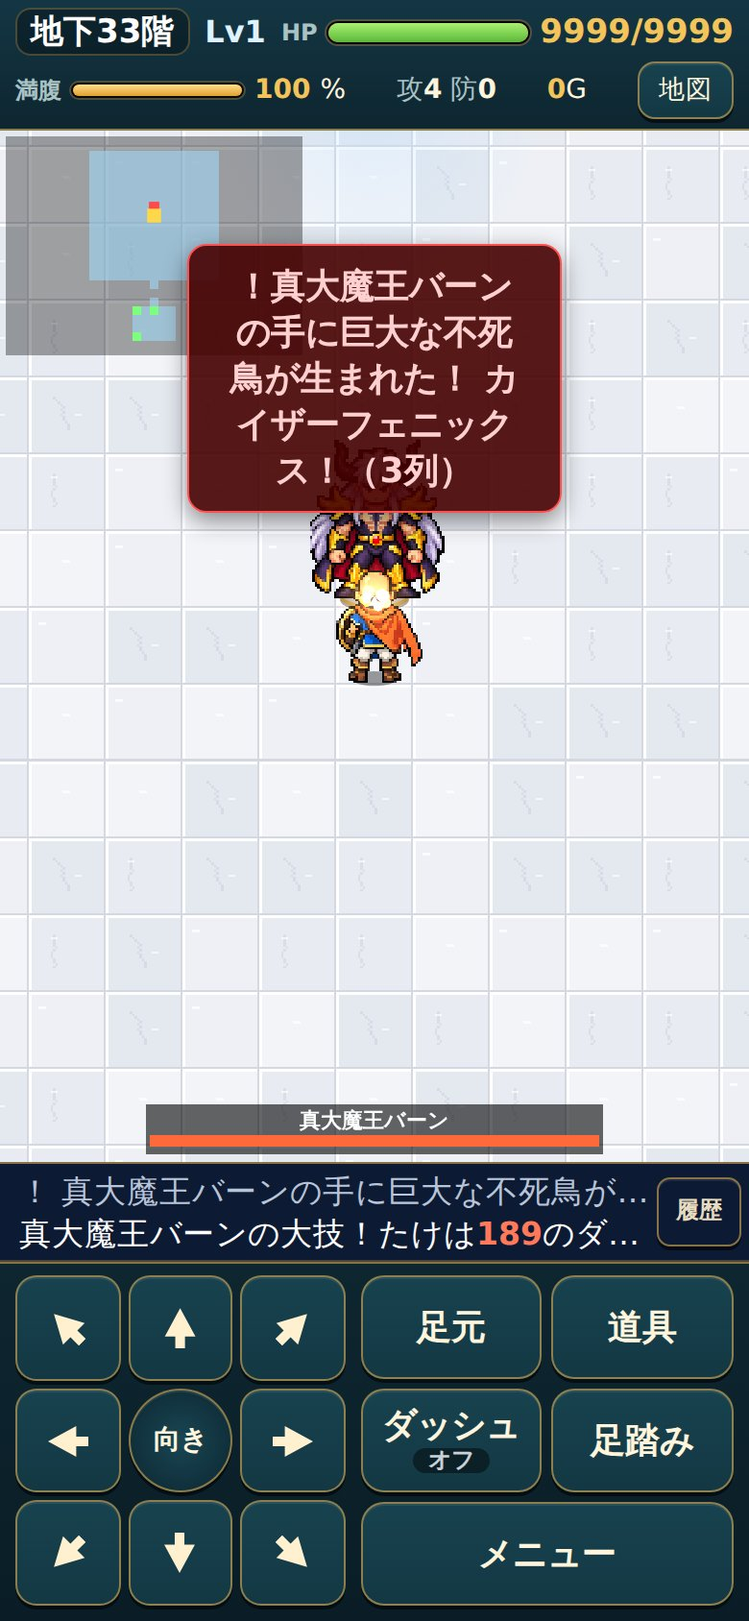
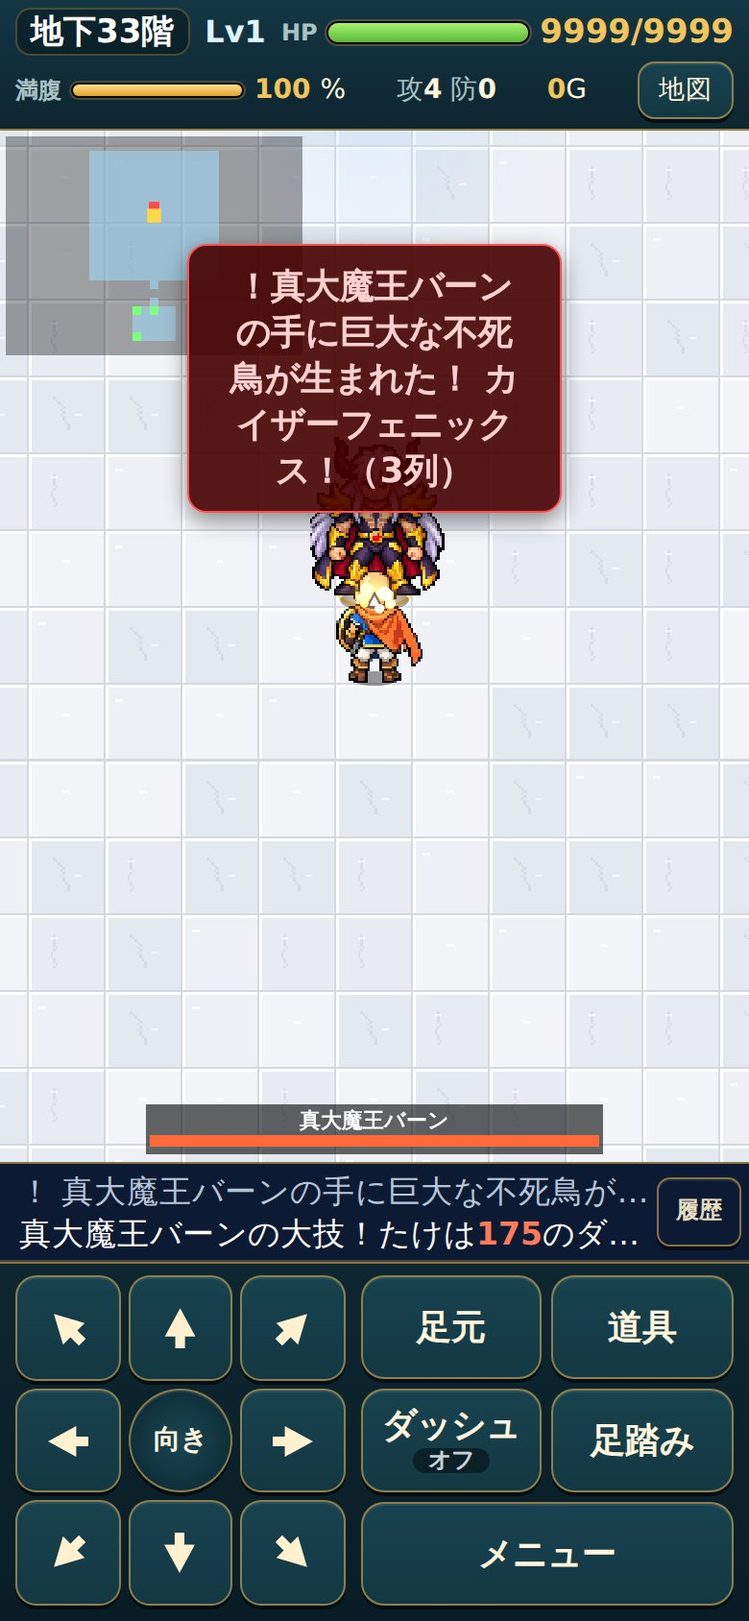
真大魔王バーンに天地魔闘の構えを追加
- 2マス以内で構える（構えている間は攻撃も予告もしない。最大4行動）
- 構えている間にたけの攻撃が当たると、そのダメージの3倍を防御無視ではね返す（バーンは無傷）
- 3マス以上離れると構えを解いてカイザーフェニックスを予告
- カラミティエンドが構えより先に出ていた順番を直した
- 数値は仮：HP1700・攻撃60（構えを足して難しくなった分を調整）
- 見た目は仮（「構」の印と金色の輪・はね返しの衝撃）。エフェクトは ChatGPT の素材待ち
- 確認：tools/truevearn-moves-check.js（30項目）・tools/truevearn-balance.js・ロジックのテスト

Claude-Session: https://claude.ai/code/session_01HDLigwwegm7F2trSGLBQuS

Changed region(s): [[0.4, 0.3081, 0.5846, 0.4005], [0.6462, 0.7393, 0.7385, 0.7701]]

diff --git a/tools/truevearn-moves-check.js b/tools/truevearn-moves-check.js
@@ -1,6 +1,7 @@
 // 真大魔王バーン（33階）の技（2026年10月21日）：予告1ターン → 次の行動で発動、の見え方と動きの確認（PCのブラウザ、幅360・390・430）
 //   node tools/truevearn-moves-check.js [出力フォルダ]（既定 docs/truevearn-moves-v1/）
 //   カラミティエンド（隣・まわり1マス）・カラミティウォール（まわり3マス）・カイザーフェニックス（隣でも3列）を、実際のゲームの処理（TS.UI.doAct の足踏み）で出させる。
+//   天地魔闘の構え（構える・攻撃するとはね返る・離れるとカイザーフェニックス）も確かめる。
 //   技の絵（エフェクト）は ChatGPT の素材が届くまで仮（ui.js の blast 'calamityEnd'・'calamityWall'、フェニックスは今の炎の鳥）
 const { chromium } = (() => { try { return require('playwright'); } catch (e) { return require('/opt/node22/lib/node_modules/playwright'); } })();
 const http = require('http'), fs = require('fs'), path = require('path');
@@ -13,9 +14,9 @@ let ok = 0, ng = 0; const chk = (c, m) => { if (c) ok++; else ng++; console.log(
 const closeAll = (p) => p.evaluate(() => { while (TS.UI.modals.length) TS.UI.modals[TS.UI.modals.length - 1].close(); TS.UI.lockUntil = 0; });
 // 技ごとの置き方：たけとボスの位置（広間の左上からのずれ）・使えない技の待ち
 const MOVES = [
-  { key: 'end', label: 'カラミティエンド', b: [7, 6], p: [7, 7], cds: { wall: 9, phoenix: 9 }, n: 8 },
-  { key: 'wall', label: 'カラミティウォール', b: [7, 6], p: [9, 9], cds: { end: 9, phoenix: 9 }, n: 48 },
-  { key: 'phoenix', label: 'カイザーフェニックス', b: [7, 6], p: [7, 7], cds: { end: 9, wall: 9 } },
+  { key: 'end', label: 'カラミティエンド', b: [7, 6], p: [7, 7], cds: { wall: 9, phoenix: 9, stance: 99 }, n: 8 },
+  { key: 'wall', label: 'カラミティウォール', b: [7, 6], p: [9, 9], cds: { end: 9, phoenix: 9, stance: 99 }, n: 48 },
+  { key: 'phoenix', label: 'カイザーフェニックス', b: [7, 6], p: [7, 7], cds: { end: 9, wall: 9, stance: 99 } },
 ];
 (async () => {
   const b = await chromium.launch();
@@ -51,6 +52,27 @@ const MOVES = [
       const dmg = hp0 - after.hp, rng = M.key === 'end' ? [120, 150] : M.key === 'wall' ? [80, 100] : [1, 999];
       chk(dmg >= rng[0] && dmg <= rng[1] && !after.rest, `${W} ${M.label}：次の行動で発動・ダメージ ${dmg}（隙なし）`);
     }
+    // 天地魔闘の構え：隣で構える → 攻撃するとはね返る（3倍）→ 3マス離れると構えを解いてカイザーフェニックスの予告
+    await p.evaluate(() => { const r = TS.UI.S.run, A = r.bossFight, bo = r.enemies.find((e) => e.boss); bo.x = A.x + 7; bo.y = A.y + 6; bo.charge = null; bo.stance = 0; bo.cds = {};
+      r.player.x = bo.x; r.player.y = bo.y + 1; r.player.dir = 'up'; r.player.hp = 9999; TS.Game.updateVision(r); });
+    await p.evaluate(() => TS.UI.doAct({ type: 'wait' })); await p.waitForTimeout(600); await closeAll(p);
+    const st = await p.evaluate(() => { const bo = TS.UI.S.run.enemies.find((e) => e.boss); return { stance: bo.stance, charge: !!bo.charge }; });
+    chk(st.stance === 4 && !st.charge, `${W} 天地魔闘の構え（攻撃も予告もしない） ${JSON.stringify(st)}`);
+    await p.screenshot({ path: path.join(OUT, `stance_${W}.jpg`), quality: 85 });
+    let ctr = null;
+    for (let i = 0; i < 6 && !ctr; i++) {
+      const h0 = await p.evaluate(() => ({ p: TS.UI.S.run.player.hp, b: TS.UI.S.run.enemies.find((e) => e.boss).hp }));
+      await p.evaluate(() => TS.UI.doAct({ type: 'move', dir: 'up' })); await p.waitForTimeout(140);
+      const h1 = await p.evaluate(() => ({ p: TS.UI.S.run.player.hp, b: TS.UI.S.run.enemies.find((e) => e.boss).hp, log: TS.UI.S.run.log.slice(-3).join(' ') }));
+      if (h1.log.includes('はね返した')) { ctr = { lost: +(/反撃！ たけは(\d+)のダメージ/.exec(h1.log) || [0, 0])[1], boss: h0.b - h1.b }; await p.screenshot({ path: path.join(OUT, `stance-counter_${W}.jpg`), quality: 85 }); }
+      await p.waitForTimeout(500); await closeAll(p);
+    }
+    chk(ctr && ctr.lost > 0 && ctr.lost % 3 === 0 && ctr.boss === 0, `${W} 構えに攻撃：3倍のダメージが返る・バーンは無傷 ${JSON.stringify(ctr)}`);
+    await p.evaluate(() => { const r = TS.UI.S.run, bo = r.enemies.find((e) => e.boss); bo.stance = 4; r.player.x = bo.x; r.player.y = bo.y + 3; r.player.hp = 9999; TS.Game.updateVision(r); });
+    await p.evaluate(() => TS.UI.doAct({ type: 'wait' })); await p.waitForTimeout(700); await closeAll(p);
+    const lv = await p.evaluate(() => { const r = TS.UI.S.run, bo = r.enemies.find((e) => e.boss), c = bo.charge; return { stance: bo.stance, fx: c && c.fx, hit: !!c && c.tiles.some((t) => t.x === r.player.x && t.y === r.player.y) }; });
+    chk(lv.stance === 0 && lv.fx === 'firebird' && lv.hit, `${W} 3マス離れると構えを解いてカイザーフェニックスの予告 ${JSON.stringify(lv)}`);
+    await p.screenshot({ path: path.join(OUT, `stance-leave_${W}.jpg`), quality: 85 });
     chk(!errs.length, `${W} エラーなし ${errs.join(' / ')}`);
     await ctx.close();
   }

diff --git a/js/bossai.js b/js/bossai.js
@@ -253,7 +253,8 @@
    *  カラミティエンド：隣にいると、まわり1マス（8マス）。防御を無視して D.TRUEVEARN.end.dmg（120〜150）
    *  カラミティウォール：3マス以内にいると、まわり3マス（7×7）。防御を無視して 80〜100。1回の移動では外へ出られない
    *  カイザーフェニックス：8方向の直線上にいれば、隣からでも撃つ。たけへの直線と、その両どなりの3列（以前の滅びの炎の範囲）。攻撃力×mult
-   *  以前の「天地の掌」「魔界の炎の輪」「滅びの炎」は無し。HPが enrageAt 以下で待ち時間が短くなる */
+   *  天地魔闘の構え：2マス以内で構える（攻撃しない・最大4行動）。構えている間にたけの攻撃が当たると3倍にしてはね返す。3マス以上離れると構えを解いてカイザーフェニックス
+ *  以前の「天地の掌」「魔界の炎の輪」「滅びの炎」は無し。HPが enrageAt 以下で待ち時間が短くなる */
   AI.truevearn = function (S, e, ev, sees, H) {
     const run = S.run, p = run.player, E = D.ENEMIES[e.type], TV = D.TRUEVEARN;
     if (!aware(run, e, sees)) return false;
@@ -266,18 +267,32 @@
       cd[key] = TV[key].cd[ph];
       return true;
     };
-    if (H.adjacent(run, e, p) && !cd.end) return fixed(H.areaTiles(run, e, 1), 'end', 'が手刀に闘気を集めた！ カラミティエンド！（まわり1マス）', 'calamityEnd');
-    if (a && !cd.phoenix) {
-      const center = H.lineTiles(run, e, a[0], a[1], 12);
-      if (center.some((t) => t.x === p.x && t.y === p.y)) {
-        // 進む向きに対して両どなりの列も（3列）
-        const px = -a[1], py = a[0], tiles = center.slice();
-        for (const s of [1, -1]) for (const t of center) { const x = t.x + px * s, y = t.y + py * s; if (DG.passable(run.map, x, y) && !tiles.some((o) => o.x === x && o.y === y)) tiles.push({ x, y }); }
-        H.startCharge(S, e, ev, tiles, TV.phoenix.mult, 0, 'の手に巨大な不死鳥が生まれた！ カイザーフェニックス！（3列）'); e.charge.fx = 'firebird';
-        cd.phoenix = TV.phoenix.cd[ph];
-        return true;
+    // カイザーフェニックス：向き a の直線（12マス）と、その両どなりの列（3列）
+    const phoenix = (a, msg) => {
+      const center = H.lineTiles(run, e, a[0], a[1], 12), px = -a[1], py = a[0], tiles = center.slice();
+      for (const s of [1, -1]) for (const t of center) { const x = t.x + px * s, y = t.y + py * s; if (DG.passable(run.map, x, y) && !tiles.some((o) => o.x === x && o.y === y)) tiles.push({ x, y }); }
+      H.startCharge(S, e, ev, tiles, TV.phoenix.mult, 0, msg + 'カイザーフェニックス！（3列）'); e.charge.fx = 'firebird';
+      cd.phoenix = TV.phoenix.cd[ph];
+      return true;
+    };
+    // 天地魔闘の構え（e.stance＝構えていられる残りの行動）。構えている間は攻撃しない。反撃は js/game.js の damageEnemy
+    const ST = TV.stance;
+    if (e.stance > 0) {
+      if (d >= ST.breakAt) {   // 離れた：構えを解いて、たけの方へ（いちばん近い8方向）カイザーフェニックス
+        e.stance = 0;
+        const ang = Math.round(Math.atan2(p.y - e.y, p.x - e.x) / (Math.PI / 4)) * Math.PI / 4;
+        return phoenix([Math.round(Math.cos(ang)), Math.round(Math.sin(ang))], 'は構えを解いた！ 手に巨大な不死鳥が生まれた！ ');
       }
+      if (--e.stance > 0) { say(run, E.name + 'は' + ST.name + 'をとっている……（攻撃するとはね返される）'); return true; }
+      say(run, E.name + 'は構えを解いた。');
+    } else if (!cd.stance && d <= ST.range) {
+      e.stance = ST.maxActs; cd.stance = ST.cd[ph] + ST.maxActs;
+      say(run, E.name + 'は' + ST.name + 'をとった！ 攻撃するとはね返される！ 離れると……');
+      ev.push({ t: 'stance', id: e.id });
+      return true;
     }
+    if (H.adjacent(run, e, p) && !cd.end) return fixed(H.areaTiles(run, e, 1), 'end', 'が手刀に闘気を集めた！ カラミティエンド！（まわり1マス）', 'calamityEnd');
+    if (a && !cd.phoenix && H.lineTiles(run, e, a[0], a[1], 12).some((t) => t.x === p.x && t.y === p.y)) return phoenix(a, 'の手に巨大な不死鳥が生まれた！ ');
     if (d <= TV.wall.radius && !cd.wall) return fixed(H.areaTiles(run, e, TV.wall.radius), 'wall', 'のまわりに闘気の壁が広がる！ カラミティウォール！（まわり3マス）', 'calamityWall');
     return false;   // 通常攻撃（隣）か、近づく
   };

diff --git a/tools/truevearn-balance.js b/tools/truevearn-balance.js
@@ -1,12 +1,13 @@
 // 真大魔王バーン（33階）の手ごたえの目安：node tools/truevearn-balance.js [回数]
 // 実際のゲームの処理（G.act）で戦わせる。たけ：Lv40・最大HP264・覇者の剣+8（攻78）・覇者の盾+3（防22）・いのちの霊薬3個（全回復）。祈りで全回復した状態から
 // たけの動き（簡易AI）：HPが減ったら霊薬（1ターン）。予告の範囲にいれば、範囲の外の隣のマスへ（無ければ攻撃）。それ以外は隣なら攻撃、離れていれば近づく
-//   「よけない」：予告を無視して殴り続ける（上限の目安）
+//   天地魔闘の構えのあいだは殴らずにその場で待つ（よけるAI。STANCE=leave なら離れる）
+//   「よけない」：予告も構えも無視して殴り続ける（上限の目安）
 const TS = require('../tests/load'); const { Data: D, Game: G, Dungeon: DG } = TS;
 const N = +(process.argv[2] || 200);
-// 調整の試し：TV='{"hp":1500,"atk":55,"wallCd":[3,2],"endCd":[3,2],"phMult":2.4,"phCd":[3,2]}' のように上書き
+// 調整の試し：TV='{"hp":1500,"atk":55,"wallCd":[3,2],"endCd":[3,2],"phMult":2.4,"phCd":[3,2],"stCd":[8,6],"stActs":4}' のように上書き
 if (process.env.TV) { const o = JSON.parse(process.env.TV), E = D.ENEMIES.truevearn, T = D.TRUEVEARN;
-  if (o.hp) E.hp = o.hp; if (o.atk) E.atk = o.atk; if (o.wallCd) T.wall.cd = o.wallCd; if (o.endCd) T.end.cd = o.endCd; if (o.phMult) T.phoenix.mult = o.phMult; if (o.phCd) T.phoenix.cd = o.phCd; }
+  if (o.hp) E.hp = o.hp; if (o.atk) E.atk = o.atk; if (o.wallCd) T.wall.cd = o.wallCd; if (o.endCd) T.end.cd = o.endCd; if (o.phMult) T.phoenix.mult = o.phMult; if (o.phCd) T.phoenix.cd = o.phCd; if (o.stCd) T.stance.cd = o.stCd; if (o.stActs) T.stance.maxActs = o.stActs; }
 const ONLY = process.env.ONLY_DODGE;
 function setup(seed) {
   const S = G.newState(), st = S.village.story; st.introDone = true; S.village.seenIntro = true; st.chapter = 6;
@@ -43,10 +44,20 @@ function fight(seed, dodge, healAt) {
         const dd = Math.max(Math.abs(x - b.x), Math.abs(y - b.y)); if (dd < bd) { bd = dd; best = d; } }
       if (best) act = { type: 'move', dir: best };
     }
+    // 天地魔闘の構え：殴らずに離れる（よけるAIだけ。予告の範囲には入らない）
+    if (!act && dodge && b.stance > 0 && process.env.STANCE !== 'leave') act = { type: 'wait' };   // 既定：構えのあいだは殴らずに待つ（STANCE=leave：離れる）
+    if (!act && dodge && b.stance > 0) {
+      let best = null, bd = -1;
+      for (const [d, [dx, dy]] of DIRS) { const x = p.x + dx, y = p.y + dy;
+        if (!G.canStep(r.map, p.x, p.y, dx, dy) || G.enemyAt(r, x, y) || danger.has(x + ',' + y)) continue;
+        const dd = Math.max(Math.abs(x - b.x), Math.abs(y - b.y)); if (dd > bd) { bd = dd; best = d; } }
+      act = best ? { type: 'move', dir: best } : { type: 'wait' };
+    }
     if (!act) {
       const dx = Math.sign(b.x - p.x), dy = Math.sign(b.y - p.y);
       const d = Object.keys(G.DIRS).find((k) => G.DIRS[k][0] === dx && G.DIRS[k][1] === dy);
-      act = { type: 'move', dir: d };   // 隣なら攻撃（移動の向きに敵）
+      const adj = Math.max(Math.abs(b.x - p.x), Math.abs(b.y - p.y)) <= 1;
+      act = dodge && !adj && danger.has((p.x + dx) + ',' + (p.y + dy)) ? { type: 'wait' } : { type: 'move', dir: d };   // 隣なら攻撃（移動の向きに敵）。よけるAIは予告のマスへは近づかない
     }
     G.act(S, act); turns++;
     if (p.hp < hp0) taken += hp0 - p.hp;

diff --git a/js/ui.js b/js/ui.js
@@ -1884,6 +1884,7 @@
         case 'eanim': { const en = run.enemies.find((q) => q.id === e.id); if (en) enemyActFx(en, e.kind, e.dx, UI.ENEMY_ACT.prep, UI.ENEMY_ACT.prep + UI.ENEMY_ACT.act); break; }
         // あくまのきしが盾を構えた（ポーズは render.js が e.guard で出す）
         case 'eguard': AU.sfx('bump'); break;
+        case 'stance': AU.sfx('bump'); break;   // 天地魔闘の構え（構えの見た目は render.js が e.stance で出す）
         case 'steal': {
           // おどるほうせき：盗む動作のコマを、逃げる前の場所に残して見せる（盗みはゲーム側で1回だけ済んでいる）
           const th = e.id !== undefined && { id: e.id, x: e.from.x, y: e.from.y, type: (run.enemies.find((q) => q.id === e.id) || {}).type || 'thief' };
@@ -1985,6 +1986,7 @@
       case 'doomflame': RD.addFx({ t: 'flamewave', tiles, color: '#c8306a', dur: 560 }); AU.sfx('bolt'); return;   // 真大魔王：滅びの炎
       // 真大魔王バーン：カラミティエンド（まわり1マス）・カラミティウォール（まわり3マス）。正式の演出の絵は後で届く予定（それまでの仮）
       case 'calamityEnd': RD.addFx({ t: 'impact', tiles, center: b ? { x: b.x, y: b.y } : null, color: '#ffe0a0', dur: 420 }); FXm.shake(RD, 5, 320); AU.sfx('hit'); return;
+      case 'stanceCounter': RD.addFx({ t: 'impact', tiles, center: b ? { x: b.x, y: b.y } : null, color: '#fff2b0', dur: 380 }); FXm.shake(RD, 5, 300); AU.sfx('hit'); return;   // 天地魔闘の構えの反撃（仮。絵はChatGPT担当）
       case 'calamityWall': RD.addFx({ t: 'impact', tiles, center: b ? { x: b.x, y: b.y } : null, color: '#d8a0ff', dur: 520 }); FXm.shake(RD, 4, 360); AU.sfx('bolt'); return;
       case 'palm': // 真大魔王バーン：速く重い打撃と強い衝撃
         RD.addFx({ t: 'impact', tiles, center: b ? { x: b.x, y: b.y } : null, color: '#ffb0f0', dur: 380 });
@@ -2448,7 +2450,7 @@
       <span>武器</span><span>${w ? esc(G.itemName(w)) : 'なし'}</span><span>盾</span><span>${sh ? esc(G.itemName(sh)) : 'なし'}</span>
       <span>回復・食料</span><span>${heal}個</span><span>持ち物</span><span>${run.bag.length}/${D.BAG_SIZE}</span></div>
       <p class="note">準備の間は時間が止まっています（敵は動きません）。「道具を確認」で装備の付け替えや回復ができます。</p>
-      <div class="warnbox">真大魔王バーン：カラミティエンド（周り1マス）・カラミティウォール（周り3マス）・カイザーフェニックス（3列）。どれも予告の次のターンに発動し、防御を無視する大技もある。</div>`,
+      <div class="warnbox">真大魔王バーン：カラミティエンド（周り1マス）・カラミティウォール（周り3マス）・カイザーフェニックス（3列）。どれも予告の次のターンに発動し、防御を無視する大技もある。天地魔闘の構えのあいだに攻撃すると3倍で返され、離れるとカイザーフェニックスが来る。</div>`,
       onClose: () => { UI.prepOpen = false; },
       buttons: [
         { label: '道具を確認', onClick: () => { UI.prepHold = true; setTimeout(() => { UI.prepHold = false; openItems(); }, 0); } },

diff --git a/js/game.js b/js/game.js
@@ -882,6 +882,14 @@
    * 防御中のあくまのきし（e.guard）：受けるダメージが defend.cut 倍（最低1） */
   function damageEnemy(S, e, dmg, ev, msg, kind) {
     const run = S.run, E = D.ENEMIES[e.type], nm = E.name;
+    // 天地魔闘の構え（真大魔王バーン e.stance）：たけの攻撃（直接・投げる・杖や巻物）は当たらず、そのダメージの reflect 倍を防御無視ではね返す。ほかの敵の攻撃（kind 'enemy'）は対象外
+    if (e.stance > 0 && kind !== 'enemy') {
+      const ST = D.TRUEVEARN.stance, n = Math.max(1, Math.round(dmg * ST.reflect));
+      G.log(run, nm + 'の' + ST.name + '！ たけの攻撃をはね返した！');
+      ev.push({ t: 'blast', id: e.id, tiles: [{ x: run.player.x, y: run.player.y }], fx: 'stanceCounter' });
+      damagePlayer(S, e, n, ev, nm + 'の反撃', { big: true });
+      return;
+    }
     if (E.metal) {
       if (kind === 'magic') { G.log(run, nm + 'には効かなかった！'); ev.push({ t: 'miss', x: e.x, y: e.y }); return; }
       if (kind !== 'metal') { dmg = 1; msg = nm + 'に1のダメージ。'; }
@@ -1808,7 +1816,7 @@
     if (e.guard > 0) e.guard--;   // あくまのきしの防御：自分の行動のたびに1減る（0で終わり）
     // 眠り（眠ると予告中の攻撃も中断される）
     if (e.sleep > 0) {
-      if (e.charge) { e.charge = null; G.log(run, E.name + 'の構えがとけた。'); }
+      if (e.charge || e.stance) { e.charge = null; e.stance = 0; G.log(run, E.name + 'の構えがとけた。'); }
       if (e.sleep > 1000) { // 休眠中のきりかぶおばけ：近づくと起きる
         if (cheb(e, p) <= 2) { e.sleep = 0; G.log(run, E.name + 'が目を覚ました！'); }
         return;
@@ -2142,7 +2150,7 @@
     } else if (target) {
       const dmg = calcDamage(run.rng, atk, target.def);
       G.log(run, E.name + 'の炎は' + D.ENEMIES[target.type].name + 'に当たって止まった！');
-      damageEnemy(S, target, dmg, ev, D.ENEMIES[target.type].name + 'に' + dmg + 'のダメージ。');
+      damageEnemy(S, target, dmg, ev, D.ENEMIES[target.type].name + 'に' + dmg + 'のダメージ。', 'enemy');
     } else G.log(run, E.name + 'の炎は届かなかった。');
     return true;
   }

diff --git a/js/data.js b/js/data.js
@@ -126,6 +126,9 @@
     end: { name: 'カラミティエンド', dmg: [120, 150], cd: [3, 2] },
     wall: { name: 'カラミティウォール', dmg: [80, 100], radius: 3, cd: [2, 2] },
     phoenix: { mult: 2.6, cd: [3, 2] },
+    // 天地魔闘の構え：たけが range マス以内なら構える（攻撃しない）。構えている間にたけの攻撃が当たると、そのダメージの reflect 倍を返す（防御無視。バーンは無傷）。
+    //   たけが breakAt マス以上離れると構えを解き、カイザーフェニックスを予告する。maxActs 行動で構えを解く。cd：構えを解いてから次に構えるまで
+    stance: { name: '天地魔闘の構え', range: 2, reflect: 3, breakAt: 3, maxActs: 4, cd: [8, 6] },
   };
   /* 竜人王バラン（隠しダンジョン35階）の戦い方（2026年10月：技の種類は確定。**数値はすべて調整案（仮）**）。
    *  通常攻撃：隣なら殴る（ほかの技が使えないとき）
@@ -467,7 +470,7 @@
     mist_clone: { name: 'ミストバーン', hp: 1, atk: 22, def: 0, exp: 0, ai: 'clone', sprite: 'mist', noScale: true, clone: true },
     vearn:  { name: '大魔王バーン', hp: 900, atk: 44, def: 20, exp: 1500, ai: 'boss', sprite: 'vearn', noScale: true, arena: 'throne', big: true },
     // arena 'void'：融合と覚醒の舞台（登場ムービーの白い異空間）。白い床・白い霧・空席の水晶の玉座（js/render.js の drawVoidBg）
-    truevearn: { name: '真大魔王バーン', hp: 1800, atk: 65, def: 21, exp: 3000, ai: 'boss', sprite: 'truevearn', noScale: true, arena: 'void', big: true },
+    truevearn: { name: '真大魔王バーン', hp: 1700, atk: 60, def: 21, exp: 3000, ai: 'boss', sprite: 'truevearn', noScale: true, arena: 'void', big: true },
   };
   D.POISON = { chance: 0.4, turns: 8, guard: 15, dmgRate: 0.025 }; // 毒：最大HPの2.5%を毎ターン。治った後しばらくかからない
   D.ENEMY_SCALE = { hp: 0.12, atk: 0.08, exp: 0.12 }; // 出現し始めた階から1階ごとの上昇率

diff --git a/js/render.js b/js/render.js
@@ -534,6 +534,12 @@
       if (isClone && G.hasCharm(run, 'truesight')) badge(g, '幻', sx + ts / 2, sy + ts - dw * 0.55, ts, k, '#c8f0ff', '#102040');
       if (hit) { g.globalAlpha = img.art ? 0.65 : 0.6; if (img.art) g.drawImage(SP.tinted(img, '#ffffff'), sx + (ts - dw) / 2 + shake, ty0, dw, dw); else { g.globalCompositeOperation = 'lighter'; g.drawImage(img, sx + (ts - dw) / 2 + shake, sy + ts - dw, dw, dw); g.globalCompositeOperation = 'source-over'; } g.globalAlpha = 1; }
       g.imageSmoothingEnabled = false;
+      // 天地魔闘の構え（e.stance）：金色の光の輪と「構」の印（仮の見た目。エフェクトの絵は ChatGPT の素材待ち）
+      if (e.stance > 0) {
+        g.strokeStyle = `rgba(255,220,120,${0.55 + 0.35 * Math.sin(now / 140)})`; g.lineWidth = k * 2;
+        g.beginPath(); g.ellipse(sx + ts / 2, ty0 + dw * 0.55, dw * 0.5, dw * 0.55, 0, 0, Math.PI * 2); g.stroke();
+        badge(g, '構', sx + ts / 2, bodyTop - ts * 0.05, ts, k, '#ffe08a', '#402800');
+      }
       if (e.charge) badge(g, '！', sx + ts / 2, bodyTop - ts * 0.05, ts, k, '#ff5050', '#400');
       else if (e.rest > 0) { g.font = `bold ${Math.round(ts * 0.3)}px sans-serif`; g.fillStyle = '#bde0ff'; g.fillText('…', sx + ts * 0.65, sy + ts * 0.2); }
       // 状態異常のしるし（眠り＝月、鈍足＝砂時計）。頭の上に横に並べ、重ならないようにする

diff --git a/docs/TRUEVEARN_MOVES.md b/docs/TRUEVEARN_MOVES.md
@@ -1,4 +1,4 @@
-# 真大魔王バーン（33階）の技の作り直し（2026年10月21日）
+# 真大魔王バーン（33階）の技の作り直し（2026年10月21日・天地魔闘の構えを追加）
 
 ## 技（どれも予告1ターン：範囲が光る → 次の行動で発動。発動のあとの隙は無い）
 | 技 | 範囲 | ダメージ | 使うとき | 待ち（前半／HP40%未満） |
@@ -6,25 +6,35 @@
 | **カラミティエンド** | バーンのまわり1マス（8マス） | **120〜150・防御無視** | たけが隣にいる | 3／2 行動 |
 | **カラミティウォール** | バーンのまわり3マス（7×7） | **80〜100・防御無視** | たけが3マス以内 | 2／2 行動 |
 | **カイザーフェニックス** | バーンから一直線（12マス）＋両どなりの列＝3列 | 攻撃力×2.6（防御あり） | たけが縦・横・斜めの一直線上（**隣でも撃つ**） | 3／2 行動 |
+| **天地魔闘の構え**（2026年10月21日追加） | — | 構えている間にたけの攻撃が当たると、**そのダメージの3倍を防御無視ではね返す**（バーンは無傷） | たけが2マス以内 | 構えを解いてから 8／6 行動 |
+
+### 天地魔闘の構え
+- 構えている間は攻撃も予告もしません（頭の上に「構」、金色の光の輪。仮の見た目）。
+- 構えている間に、たけが**3マス以上離れる**と、構えを解いて**カイザーフェニックス**を予告します（たけの方へ。いちばん近い8方向）。予告は1ターンで、次の行動で発動。たけに向けて撃つので、3列の真ん中にいると1歩ではよけられません。
+- 近くで攻撃せずに待てば、**4行動**で構えを解きます（そのあとすぐ次の技。隙なし）。
+- はね返すのは、たけの攻撃（剣で殴る・2マス攻撃・投げた道具・杖や巻物の雷）。外れた攻撃は、はね返しません。ほかの敵の攻撃は対象外。
+- 動き：`js/bossai.js` の `AI.truevearn`（構える・解く）、`js/game.js` の `damageEnemy`（はね返し）。数値：`D.TRUEVEARN.stance`。
 
 - 以前の「天地の掌」は、同じ範囲（まわり1マス）のカラミティエンドに置きかえました。「滅びの炎（3列）」はカイザーフェニックスに、「魔界の炎の輪」は無くしました。
-- 優先順：隣ならカラミティエンド → 一直線ならカイザーフェニックス → 3マス以内ならカラミティウォール → どれも待ちなら通常攻撃・近づく。
+- 優先順：構えが使えて2マス以内なら天地魔闘の構え → 隣ならカラミティエンド → 一直線ならカイザーフェニックス → 3マス以内ならカラミティウォール → どれも待ちなら通常攻撃・近づく。
 - 隣にいると、カラミティウォール（7×7）からは1ターンでは出られません（かわせない攻撃）。離れていても、次々に予告が来ます。
 - 動き：`js/bossai.js` の `AI.truevearn`・`RES.fixedDmg`。数値：`js/data.js` の `D.TRUEVEARN`・`D.ENEMIES.truevearn`。
 - 最終決戦の準備の画面の説明も新しい技に替えました。
 
 ## 数値（**すべて仮**）
-- 真大魔王バーン：HP 1200 → **1800**、攻撃力 48 → **65**、防御 21（そのまま）。
+- 真大魔王バーン：HP 1200 → **1700**、攻撃力 48 → **60**、防御 21（そのまま）。（構えを足す前の案は HP1800・攻撃65）
 - 目安（`node tools/truevearn-balance.js 200`。実際のゲームの処理で200回戦わせる。たけ：Lv40・最大HP264・覇者の剣+8・覇者の盾+3・いのちの霊薬3個）：
 
 | たけの動き（簡易AI） | 勝ち | 霊薬 | 勝ったときの残りHP | ターン |
 |---|---|---|---|---|
-| 予告を見てよける・HP120以下で霊薬 | 78% | 3個とも使う | 約103 | 約82 |
-| 予告を見てよける・HP160以下で霊薬 | 82% | 3個とも使う | 約109 | 約84 |
-| よけない | 0% | — | — | 約12 |
+| 予告を見てよける・構えには攻撃せずその場で待つ・HP120以下で霊薬 | 80% | 3個とも使う | 約196 | 約109 |
+| 同じ・HP160以下で霊薬（早めに飲む） | 0% | 3個とも使う | — | 約52 |
+| 予告を見てよける・構えから離れる（`STANCE=leave`） | 0% | — | — | 約34 |
+| よけない・構えにも攻撃する | 0% | — | — | 約6 |
 
   - 簡易AIは予告を必ず見て、いちばん近い安全なマスへよけます。人の操作ではよけそこないがあるので、もっと苦しくなる見込みです。
-  - HP1900にすると、よける簡易AIでも勝ちは55%でした（強すぎる場合の目安）。
+  - 構えから離れると、毎回カイザーフェニックス（約165）を受けるので、簡易AIでは勝てません。正解は「構えたら攻撃せずに近くで待つ」です。
+  - 霊薬を早めに飲むと、使い切ったあとに倒されます（霊薬の使いどころが勝負）。
 - 「回復薬×3」は、いのちの霊薬（全回復）3個として調整しました。やくそう・上やくそうなら、もっと厳しくなります。
 
 ## 技の絵（エフェクト）
@@ -32,6 +42,6 @@
 - 予告（範囲が赤く光る）は、今までのボスと同じ表示です。
 
 ## 確認したこと（PCのブラウザ、幅360・390・430）
-- `node tools/truevearn-moves-check.js`（21項目すべて OK）：3つの技それぞれ、1回目の足踏みで範囲が光り、2回目で発動・ダメージ（エンド146・ウォール89など範囲どおり）・隙なし。エラーなし。
-- 画像：`docs/truevearn-moves-v1/`（`*-telegraph_*.jpg`＝予告、`*-hit_*.jpg`＝発動の瞬間）。
-- ロジックのテスト：エンド・ウォールが防御無視の固定の幅・ウォールは範囲の外へ出ればかわせる・フェニックスは隣でも3列・発動の次の行動で次の予告（隙なし）・古い技は出ない。
+- `node tools/truevearn-moves-check.js`（30項目すべて OK）：3つの技それぞれ、1回目の足踏みで範囲が光り、2回目で発動・ダメージ（エンド146・ウォール89など範囲どおり）・隙なし。天地魔闘の構え：構える（攻撃も予告もしない）・攻撃すると3倍が返る（バーンは無傷）・3マス離れると構えを解いてカイザーフェニックスの予告。エラーなし。
+- 画像：`docs/truevearn-moves-v1/`（`*-telegraph_*.jpg`＝予告、`*-hit_*.jpg`＝発動の瞬間、`stance_*.jpg`＝構え、`stance-counter_*.jpg`＝はね返し、`stance-leave_*.jpg`＝離れたときのカイザーフェニックス）。
+- ロジックのテスト：エンド・ウォールが防御無視の固定の幅・ウォールは範囲の外へ出ればかわせる・フェニックスは隣でも3列・発動の次の行動で次の予告（隙なし）・古い技は出ない。構え：2マス以内で構える・構えの間は攻撃しない・攻撃すると3倍で返りバーンは無傷・4行動で解ける・3マス離れるとカイザーフェニックス・ほかの敵の攻撃ははね返さない。
